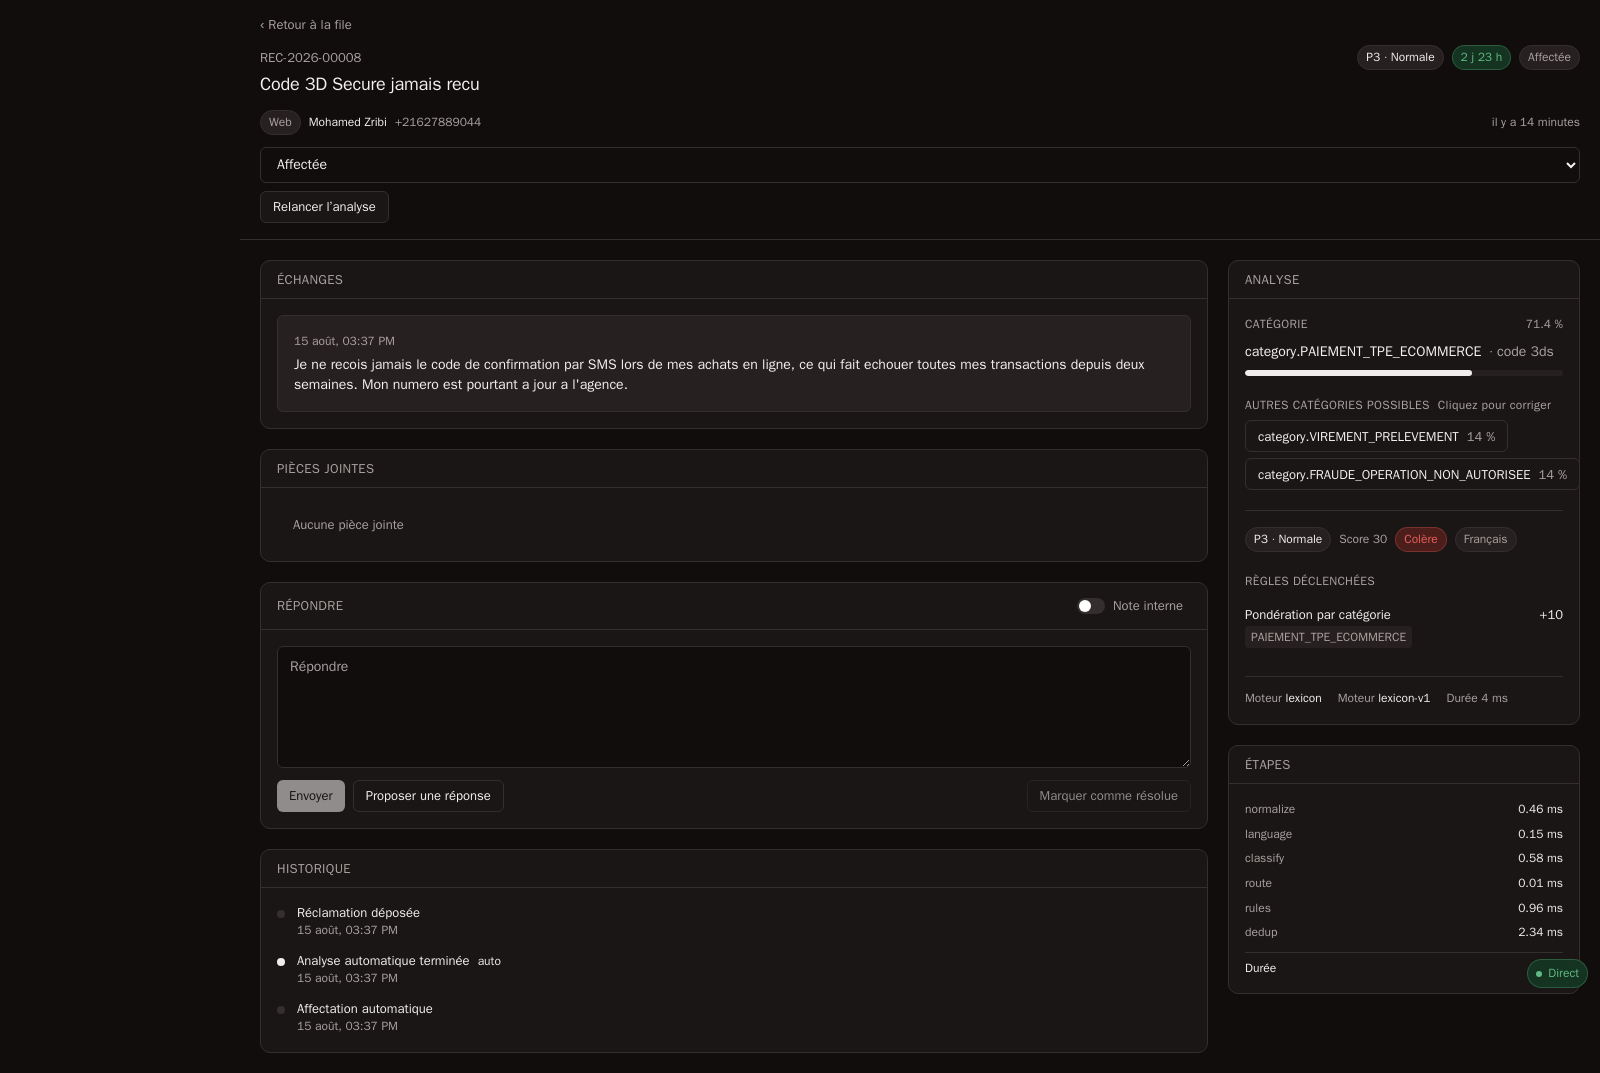
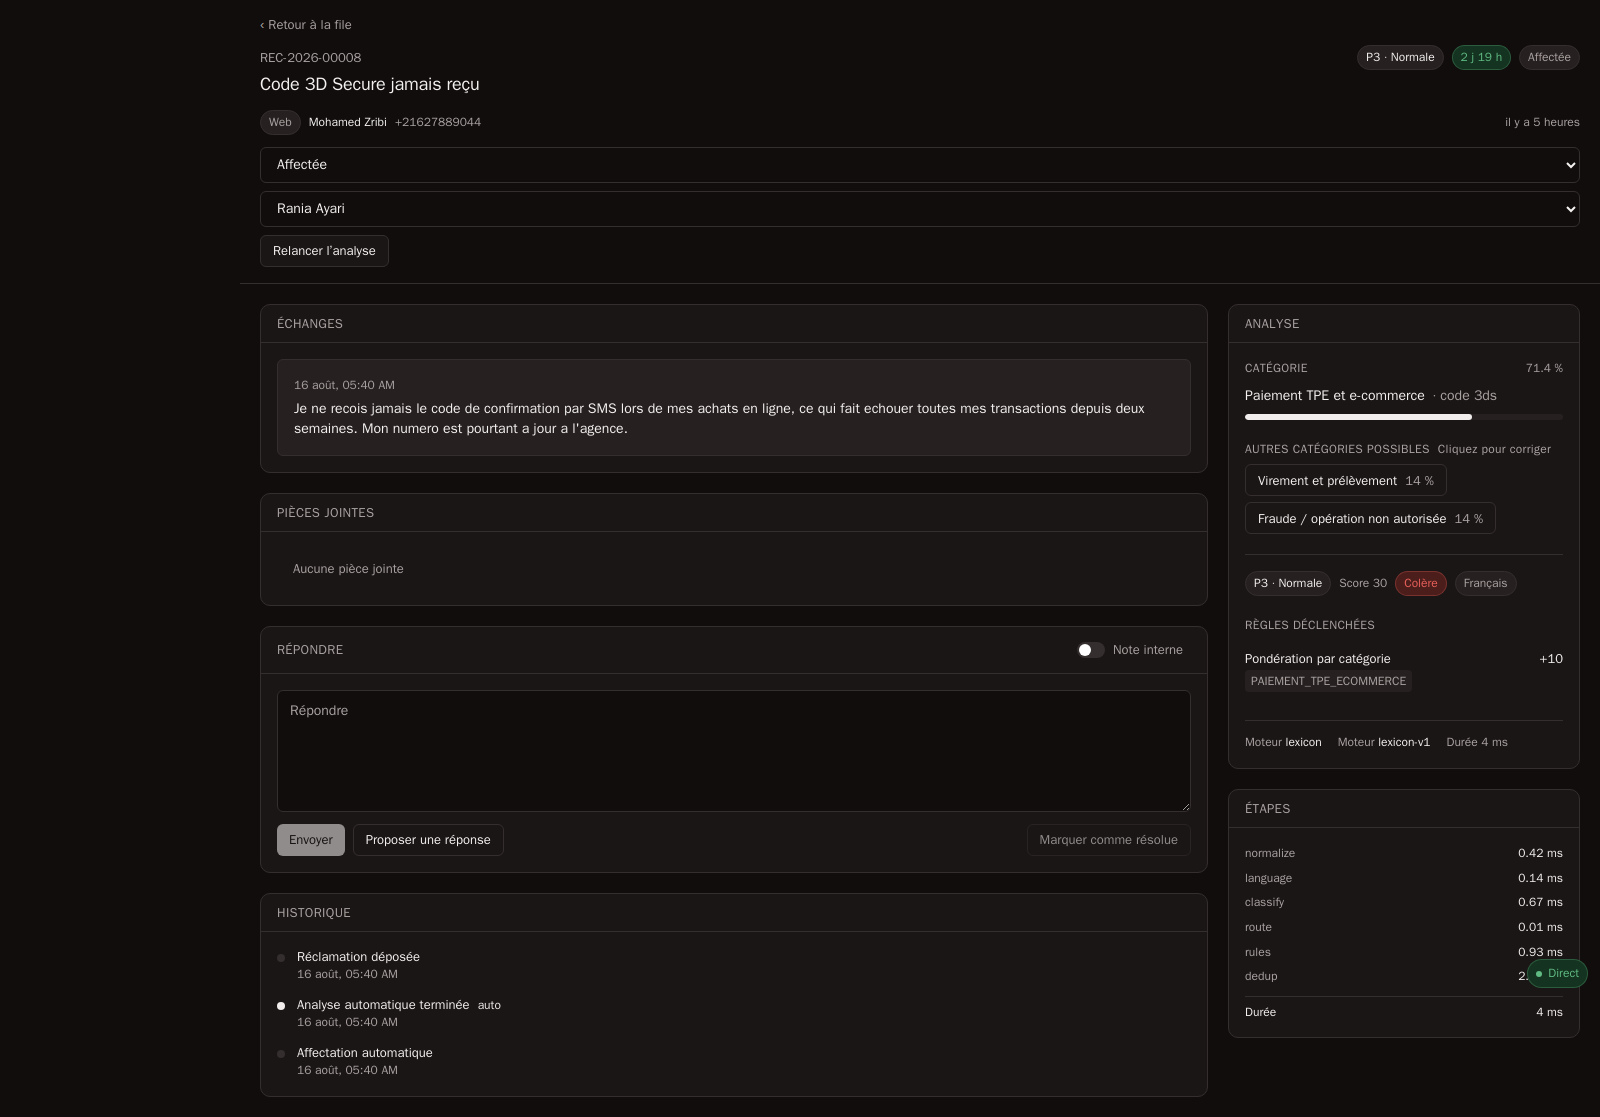
feat(console): notifications transitoires + reaffectation d'agent
REAFFECTATION
Le serveur acceptait agent_id depuis le debut, avec le controle superviseur
en place ; il manquait uniquement la commande. Un superviseur ne pouvait
pas faire la seule chose qui definit son role. Selecteur des agents dans
l'entete du detail, visible pour les superviseurs seulement — l'API
applique la meme regle, l'interface evite juste d'afficher un controle qui
serait refuse.

NOTIFICATIONS
La console se met a jour depuis un flux temps reel, et le faisait en
silence complet : une reclamation arrivait, rien ne le disait. Un agent qui
regardait ailleurs la manquait.

Trois contraintes assumees :
- Jamais pour une erreur qui demande une decision. Celles-la restent en
  ligne, a cote du controle fautif, ou une minuterie ne peut pas les
  effacer.
- Assertif seulement quand l'agent a agi. Confirmer son propre clic
  interrompt utilement ; annoncer du trafic de fond ne doit pas, donc les
  avis du flux sont polis et laissent un lecteur d'ecran finir sa phrase.
- Plafonne a trois et dedoublonne, sinon une rafale d'evenements devient
  une colonne de cartes identiques par-dessus la file.

Seuls trois evenements declenchent un avis : approche d'echeance,
depassement, escalade. La file se rafraichit deja seule ; un avis par
arrivee serait du bruit.

CORRIGE, VU SUR CAPTURE
Le panneau d'analyse affichait « Moteur lexicon · Moteur lexicon-v1 » : la
version reutilisait la cle du moteur. Cle 'analysis.engineVersion' ajoutee
en francais et en arabe.
[…]

diff --git a/frontend/src/components/Toasts.tsx b/frontend/src/components/Toasts.tsx
@@ -1,0 +1,157 @@
+import {
+  createContext,
+  useCallback,
+  useContext,
+  useEffect,
+  useMemo,
+  useRef,
+  useState,
+  type ReactNode,
+} from 'react'
+
+import { cx } from './ui'
+
+/**
+ * Transient notifications.
+ *
+ * The console updates itself from a live stream, which until now happened in
+ * total silence: a complaint appeared in the queue and nothing said so. An
+ * agent watching a different part of the screen simply missed it.
+ *
+ * Three deliberate constraints:
+ *
+ * - **Never used for errors that need a decision.** Those stay inline, next to
+ *   the control that caused them, where they cannot be dismissed by a timer.
+ * - **Assertive only when the agent acted.** A toast confirming their own click
+ *   interrupts usefully; one announcing background traffic must not, so stream
+ *   notices are polite and let a screen reader finish its sentence.
+ * - **Capped and de-duplicated.** A burst of stream events must not become a
+ *   column of identical cards covering the queue underneath.
+ */
+
+export type ToastKind = 'success' | 'info' | 'warning' | 'danger'
+
+interface Toast {
+  id: number
+  kind: ToastKind
+  message: string
+  /** Stream notices are polite; direct results of a click are assertive. */
+  assertive: boolean
+}
+
+interface ToastApi {
+  /** Confirms something the agent just did. Announced assertively. */
+  notify: (message: string, kind?: ToastKind) => void
+  /** Reports something that happened on its own. Announced politely. */
+  announce: (message: string, kind?: ToastKind) => void
+}
+
+const ToastContext = createContext<ToastApi | null>(null)
+
+const DURATION_MS = 4500
+const MAX_VISIBLE = 3
+
+export function ToastProvider({ children }: { children: ReactNode }) {
+  const [toasts, setToasts] = useState<Toast[]>([])
+  const nextId = useRef(1)
+  const timers = useRef<Map<number, ReturnType<typeof setTimeout>>>(new Map())
+
+  const dismiss = useCallback((id: number) => {
+    setToasts((current) => current.filter((toast) => toast.id !== id))
+    const timer = timers.current.get(id)
+    if (timer) {
+      clearTimeout(timer)
+      timers.current.delete(id)
+    }
+  }, [])
+
+  const push = useCallback(
+    (message: string, kind: ToastKind, assertive: boolean) => {
+      setToasts((current) => {
+        // Same message already on screen: refresh it rather than stack a copy.
+        if (current.some((toast) => toast.message === message)) return current
+        const id = nextId.current++
+        const timer = setTimeout(() => dismiss(id), DURATION_MS)
+        timers.current.set(id, timer)
+        return [...current, { id, kind, message, assertive }].slice(-MAX_VISIBLE)
+      })
+    },
+    [dismiss],
+  )
+
+  // Clear pending timers on unmount so a dismissed provider cannot set state.
+  useEffect(() => {
+    const pending = timers.current
+    return () => {
+      pending.forEach(clearTimeout)
+      pending.clear()
+    }
+  }, [])
+
+  const api = useMemo<ToastApi>(
+    () => ({
+      notify: (message, kind = 'success') => push(message, kind, true),
+      announce: (message, kind = 'info') => push(message, kind, false),
+    }),
+    [push],
+  )
+
+  return (
+    <ToastContext.Provider value={api}>
+      {children}
+      <ToastViewport toasts={toasts} onDismiss={dismiss} />
+    </ToastContext.Provider>
+  )
+}
+
+export function useToast(): ToastApi {
+  const context = useContext(ToastContext)
+  // A missing provider must not crash a page; it just means no toasts.
+  return context ?? { notify: () => {}, announce: () => {} }
+}
+
+const TONE: Record<ToastKind, string> = {
+  success: 'border-success text-success',
+  info: 'border-line text-ink',
+  warning: 'border-amber text-amber',
+  danger: 'border-danger text-danger',
+}
+
+function ToastViewport({
+  toasts,
+  onDismiss,
+}: {
+  toasts: Toast[]
+  onDismiss: (id: number) => void
+}) {
+  return (
+    <div
+      className="pointer-events-none fixed bottom-3 end-3 z-[var(--z-toast)]
+                 flex w-[min(22rem,calc(100vw-1.5rem))] flex-col gap-2"
+    >
+      {toasts.map((toast) => (
+        <div
+          key={toast.id}
+          role="status"
+          aria-live={toast.assertive ? 'assertive' : 'polite'}
+          className={cx(
+            'pointer-events-auto flex items-start gap-2 rounded-[var(--radius-panel)]',
+            'border bg-surface px-3 py-2 text-sm shadow-[var(--shadow-panel)]',
+            'motion-safe:animate-[toast-in_200ms_var(--ease-out-quint)]',
+            TONE[toast.kind],
+          )}
+        >
+          <span className="min-w-0 flex-1 text-ink">{toast.message}</span>
+          <button
+            type="button"
+            onClick={() => onDismiss(toast.id)}
+            aria-label="Fermer"
+            className="shrink-0 rounded px-1 text-ink-muted hover:text-ink"
+          >
+            &times;
+          </button>
+        </div>
+      ))}
+    </div>
+  )
+}

diff --git a/frontend/src/routes/ComplaintDetail.tsx b/frontend/src/routes/ComplaintDetail.tsx
@@ -20,11 +20,12 @@ import {
   Toggle,
   cx,
 } from '@/components/ui'
+import { useToast } from '@/components/Toasts'
 import { useT } from '@/i18n'
 import { api } from '@/lib/api'
 import { useAuth } from '@/lib/auth'
 import { formatDateTime, formatRelative } from '@/lib/format'
-import type {
+import type { User,
   Complaint,
   Status,
   SuggestionResponse,
@@ -62,6 +63,7 @@ const STATUSES: Status[] = [
 export function ComplaintDetail() {
   const { id = '' } = useParams()
   const { t, locale } = useT()
+  const { notify } = useToast()
   const { can } = useAuth()
   const queryClient = useQueryClient()
 
@@ -92,6 +94,28 @@ export function ComplaintDetail() {
   const retriage = useMutation({
     mutationFn: () => api.post(`/complaints/${id}/retriage`),
     onSuccess: invalidate,
+  })
+
+  // Supervisors only — the API enforces the same rule, this just avoids
+  // showing a control that would be refused.
+  const { data: agents = [] } = useQuery<User[]>({
+    queryKey: ['staff'],
+    queryFn: () => api.get('/users?role=agent'),
+    enabled: can('supervisor'),
+    staleTime: 5 * 60 * 1000,
+  })
+
+  const reassign = useMutation({
+    mutationFn: (agentId: string) =>
+      api.patch(`/complaints/${id}`, { agent_id: agentId || null }),
+    onSuccess: (_result, agentId) => {
+      invalidate()
+      const name = agents.find((agent) => agent.id === agentId)?.full_name
+      notify(
+        name ? t('complaint.reassigned', { name }) : t('complaint.unassignedDone'),
+      )
+    },
+    onError: () => notify(t('complaint.reassignFailed'), 'danger'),
   })
 
   if (complaint.isLoading) {
@@ -165,6 +189,7 @@ export function ComplaintDetail() {
 
         <div className="flex flex-wrap items-center gap-2">
           <Select
+            className="w-auto min-w-44"
             aria-label={t('complaint.changeStatus')}
             value={data.status}
             onChange={(event) => changeStatus.mutate(event.target.value as Status)}
@@ -175,6 +200,23 @@ export function ComplaintDetail() {
               </option>
             ))}
           </Select>
+
+          {can('supervisor') && (
+            <Select
+              className="w-auto min-w-52"
+              aria-label={t('complaint.reassign')}
+              value={data.assignment?.agent_id ?? ''}
+              disabled={reassign.isPending}
+              onChange={(event) => reassign.mutate(event.target.value)}
+            >
+              <option value="">{t('complaint.unassigned')}</option>
+              {agents.map((agent) => (
+                <option key={agent.id} value={agent.id}>
+                  {agent.full_name}
+                </option>
+              ))}
+            </Select>
+          )}
 
           {can('supervisor') && (
             <Button onClick={() => retriage.mutate()} loading={retriage.isPending}>

diff --git a/frontend/src/lib/sse.tsx b/frontend/src/lib/sse.tsx
@@ -2,6 +2,7 @@ import { useQueryClient } from '@tanstack/react-query'
 import { createContext, useContext, useEffect, useRef, useState } from 'react'
 import type { ReactNode } from 'react'
 
+import { useToast, type ToastKind } from '../components/Toasts'
 import { API_BASE, getAccessToken } from './api'
 import { useAuth } from './auth'
 
@@ -34,8 +35,20 @@ const INVALIDATES: Record<string, string[]> = {
   'sla.warning': ['complaints', 'supervision'],
   'sla.breached': ['complaints', 'supervision', 'overview'],
   'complaint.escalated': ['complaints', 'supervision'],
-  'triage.corrected': ['complaints', 'complaint', 'model'],
-  'model.promoted': ['model', 'ml-status'],
+  'triage.corrected': ['complaints', 'complaint', 'engine'],
+}
+
+/**
+ * Stream events worth interrupting an agent for, and how they read.
+ *
+ * Deliberately not every event: the queue already refreshes itself, so a toast
+ * per arrival would be noise. Only the two that change what someone should do
+ * next — a deadline about to expire, and one already missed — plus escalation.
+ */
+const ANNOUNCE: Record<string, { message: string; kind: ToastKind }> = {
+  'sla.warning': { message: 'Une réclamation approche de son échéance', kind: 'warning' },
+  'sla.breached': { message: 'Échéance dépassée sur une réclamation', kind: 'danger' },
+  'complaint.escalated': { message: 'Une réclamation a été escaladée', kind: 'warning' },
 }
 
 const RECONNECT_MIN_MS = 1_000
@@ -43,6 +56,7 @@ const RECONNECT_MAX_MS = 30_000
 
 export function SSEProvider({ children }: { children: ReactNode }) {
   const { isStaff } = useAuth()
+  const { announce } = useToast()
   const queryClient = useQueryClient()
   const [connected, setConnected] = useState(false)
   const [lastEvent, setLastEvent] = useState<string | null>(null)
@@ -90,6 +104,8 @@ export function SSEProvider({ children }: { children: ReactNode }) {
           if (!name) continue // heartbeat or comment
 
           setLastEvent(name)
+          const notice = ANNOUNCE[name]
+          if (notice) announce(notice.message, notice.kind)
           for (const key of INVALIDATES[name] ?? []) {
             void queryClient.invalidateQueries({ queryKey: [key] })
           }
@@ -116,7 +132,7 @@ export function SSEProvider({ children }: { children: ReactNode }) {
       if (timer) window.clearTimeout(timer)
       setConnected(false)
     }
-  }, [isStaff, queryClient])
+  }, [isStaff, queryClient, announce])
 
   return (
     <SSEContext.Provider value={{ connected, lastEvent }}>

diff --git a/frontend/src/App.tsx b/frontend/src/App.tsx
@@ -4,6 +4,7 @@ import { Navigate, Route, Routes, useLocation } from 'react-router-dom'
 import { AppShell } from './components/AppShell'
 import { Skeleton } from './components/ui'
 import { useAuth } from './lib/auth'
+import { ToastProvider } from './components/Toasts'
 import { SSEProvider } from './lib/sse'
 import type { Role } from './lib/types'
 import { Login } from './routes/Login'
@@ -60,7 +61,8 @@ function Protected({ minimum, children }: { minimum: Role; children: React.React
 
 export function App() {
   return (
-    <SSEProvider>
+    <ToastProvider>
+      <SSEProvider>
       <Routes>
         {/* ---- public portal (light, FR + AR RTL) ---- */}
         <Route path="/" element={<Navigate to="/portal" replace />} />
@@ -156,6 +158,7 @@ export function App() {
 
         <Route path="*" element={<Navigate to="/portal" replace />} />
       </Routes>
-    </SSEProvider>
+      </SSEProvider>
+    </ToastProvider>
   )
 }

diff --git a/frontend/src/i18n/fr.ts b/frontend/src/i18n/fr.ts
@@ -192,6 +192,7 @@ export const fr = {
   'analysis.relatedHelp':
     'Meme problème signalé par d’autres clients — probablement un incident collectif.',
   'analysis.needsTriage': 'Vérification humaine requise',
+  'analysis.engineVersion': 'Version',
   'analysis.engine': 'Moteur',
   'analysis.latency': 'Durée',
   'analysis.stages': 'Étapes',
@@ -330,6 +331,10 @@ export const fr = {
 
   'lang.fr': 'Français',
   'lang.ar': 'Arabe',
+  'complaint.reassign': 'Réaffecter à un agent',
+  'complaint.reassigned': 'Réaffectée à {name}',
+  'complaint.unassignedDone': 'Affectation retirée',
+  'complaint.reassignFailed': 'La réaffectation a échoué',
   'category.CARTE_BANCAIRE': 'Carte bancaire',
   'category.DAB_GAB': 'Distributeur (DAB/GAB)',
   'category.PAIEMENT_TPE_ECOMMERCE': 'Paiement TPE et e-commerce',

diff --git a/frontend/src/i18n/ar.ts b/frontend/src/i18n/ar.ts
@@ -92,6 +92,12 @@ export const ar: Partial<Record<TranslationKey, string>> = {
   'common.retry': 'إعادة المحاولة',
   'common.required': 'هذا الحقل إجباري',
 
+  'complaint.reassign': 'إعادة الإسناد إلى عون',
+  'complaint.unassigned': 'غير مسندة',
+  'complaint.reassigned': 'أعيد إسنادها إلى {name}',
+  'complaint.unassignedDone': 'تم رفع الإسناد',
+  'complaint.reassignFailed': 'فشلت إعادة الإسناد',
+  'analysis.engineVersion': 'الإصدار',
   'category.CARTE_BANCAIRE': 'البطاقة البنكية',
   'category.DAB_GAB': 'الموزع الآلي',
   'category.PAIEMENT_TPE_ECOMMERCE': 'الدفع الإلكتروني',

diff --git a/frontend/src/styles/app.css b/frontend/src/styles/app.css
@@ -273,3 +273,16 @@
     scrollbar-color: var(--line) transparent;
   }
 }
+
+/* Toast entrance. Reduced motion gets the end state with no travel. */
+@keyframes toast-in {
+  from { opacity: 0; transform: translateY(0.5rem); }
+  to   { opacity: 1; transform: none; }
+}
+
+@media (prefers-reduced-motion: reduce) {
+  @keyframes toast-in {
+    from { opacity: 0; }
+    to   { opacity: 1; }
+  }
+}

diff --git a/frontend/src/components/AnalysisPanel.tsx b/frontend/src/components/AnalysisPanel.tsx
@@ -209,7 +209,7 @@ export function AnalysisPanel({
           <span className="font-medium text-ink">{analysis.engine ?? '—'}</span>
         </span>
         <span>
-          {t('analysis.engine')}{' '}
+          {t('analysis.engineVersion')}{' '}
           <span className="ltr-isolate font-medium text-ink">
             {analysis.engine_version ?? '—'}
           </span>
